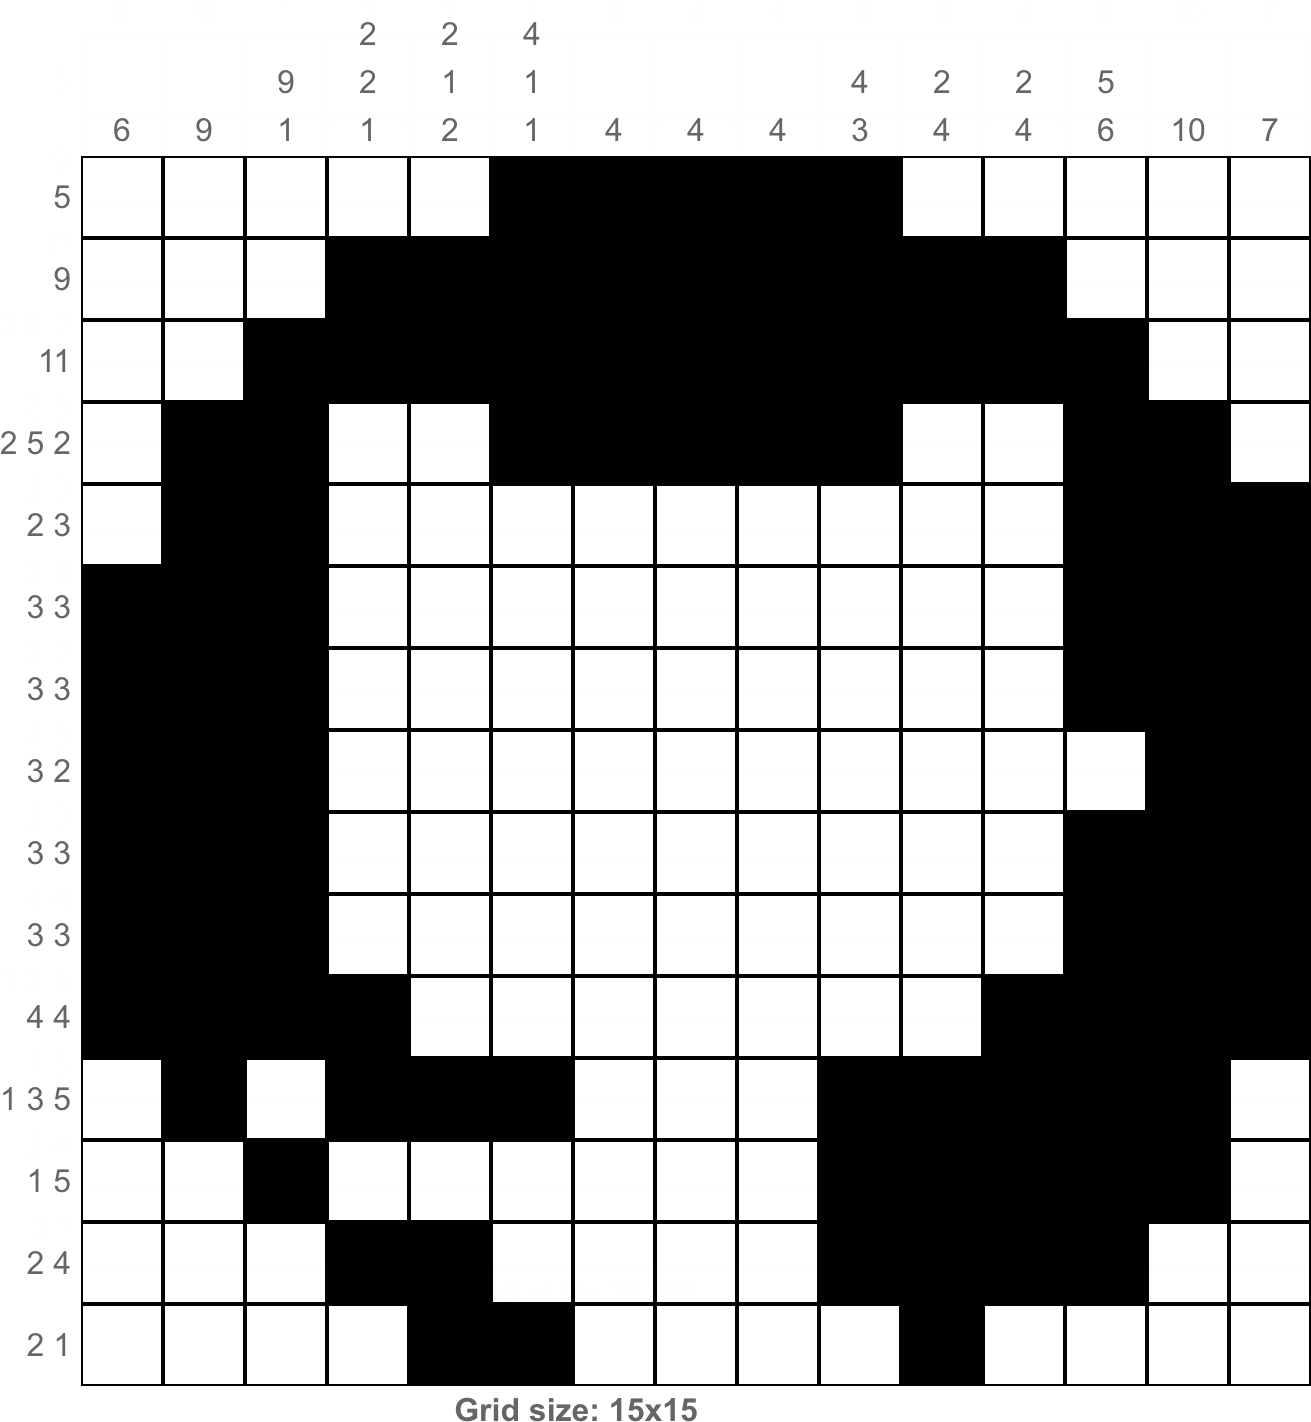
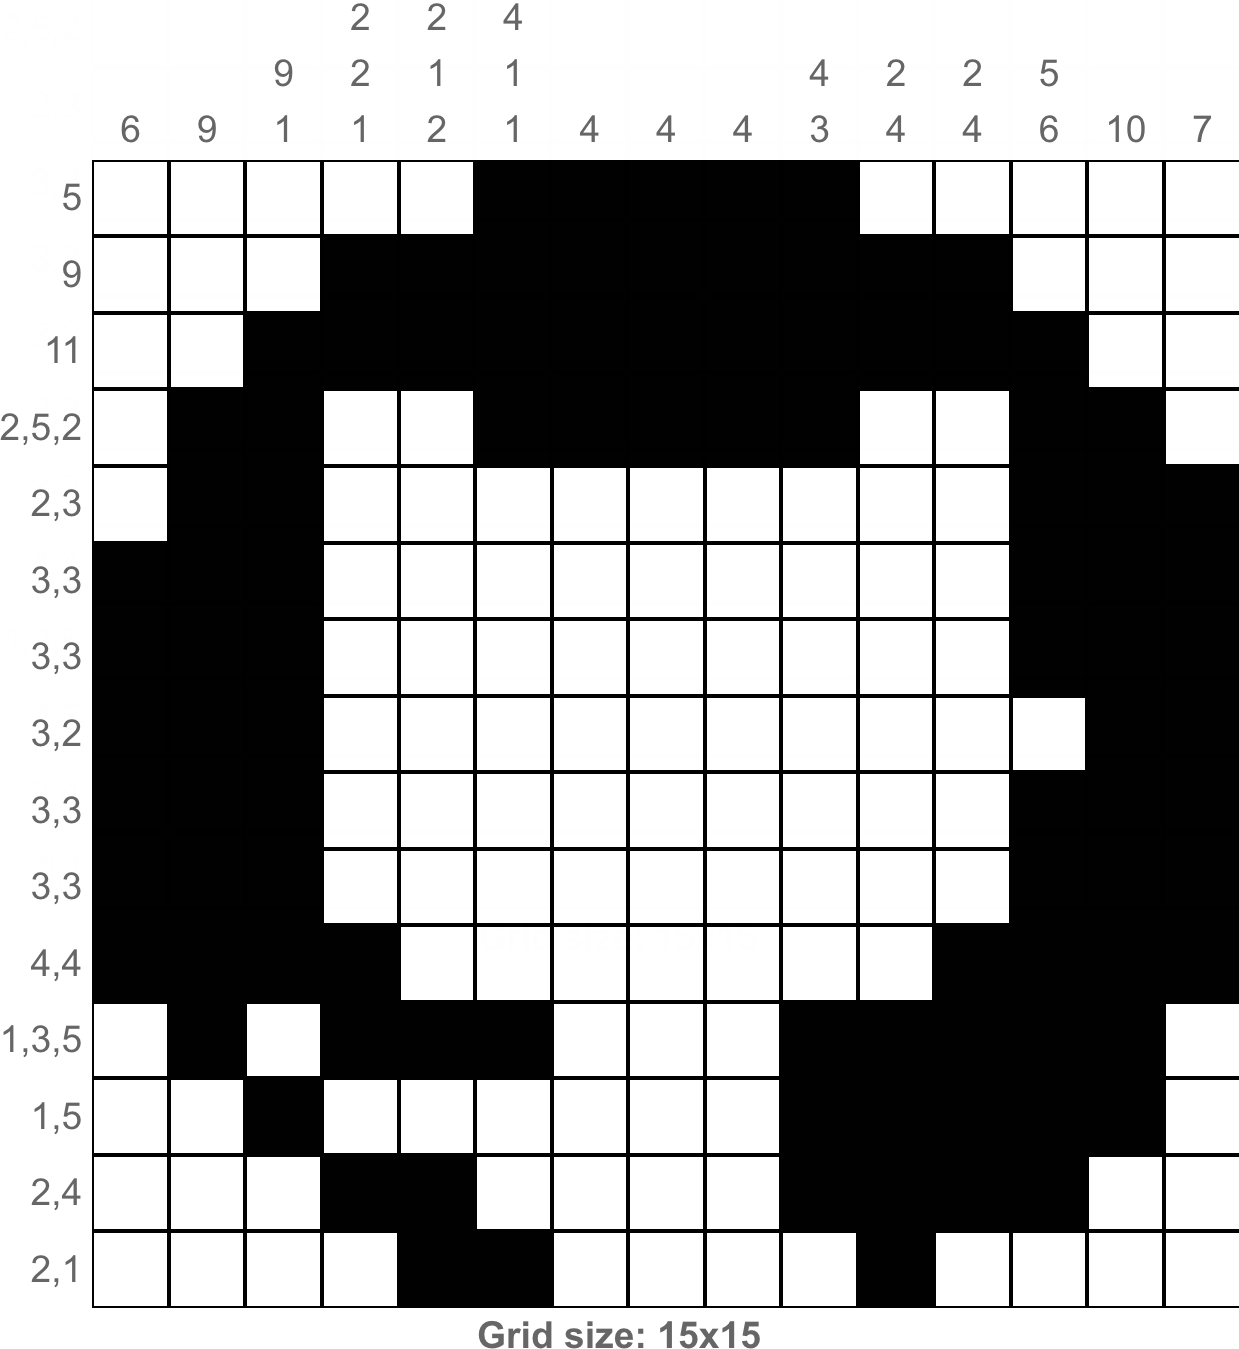
Fix label size for classic. Separate row labels in nonogram by comma.

Changed region(s): [[0.0, 0.0, 1.0, 1.0], [0.9201, 0.7784, 1.0, 0.8095], [0.9814, 0.9652, 1.0, 0.9963]]

diff --git a/src/components/Grid.js b/src/components/Grid.js
@@ -38,7 +38,7 @@ const Grid = props => {
                     key={colIndex}
 
                     style={{
-                      fontSize,
+                      fontSize: (game === 'nonogram') ? fontSize : undefined,
                       verticalAlign: 'bottom',
                       paddingDown: '5px'
                     }}
@@ -56,7 +56,7 @@ const Grid = props => {
               {(game === 'classic' || !isAuthoring) && (
                 <td
                   style={{
-                    fontSize,
+                    fontSize: (game === 'nonogram') ? fontSize : undefined,
                     textAlign: 'right',
                     paddingRight: '5px'
                   }}

diff --git a/src/lib/util.js b/src/lib/util.js
@@ -200,7 +200,7 @@ export const getYLabel = (y, game, gridData, gridSize) => {
       labelValues.push(0)
     }
 
-    return labelValues.join(' ')
+    return labelValues.join(',')
   }
 }
 
